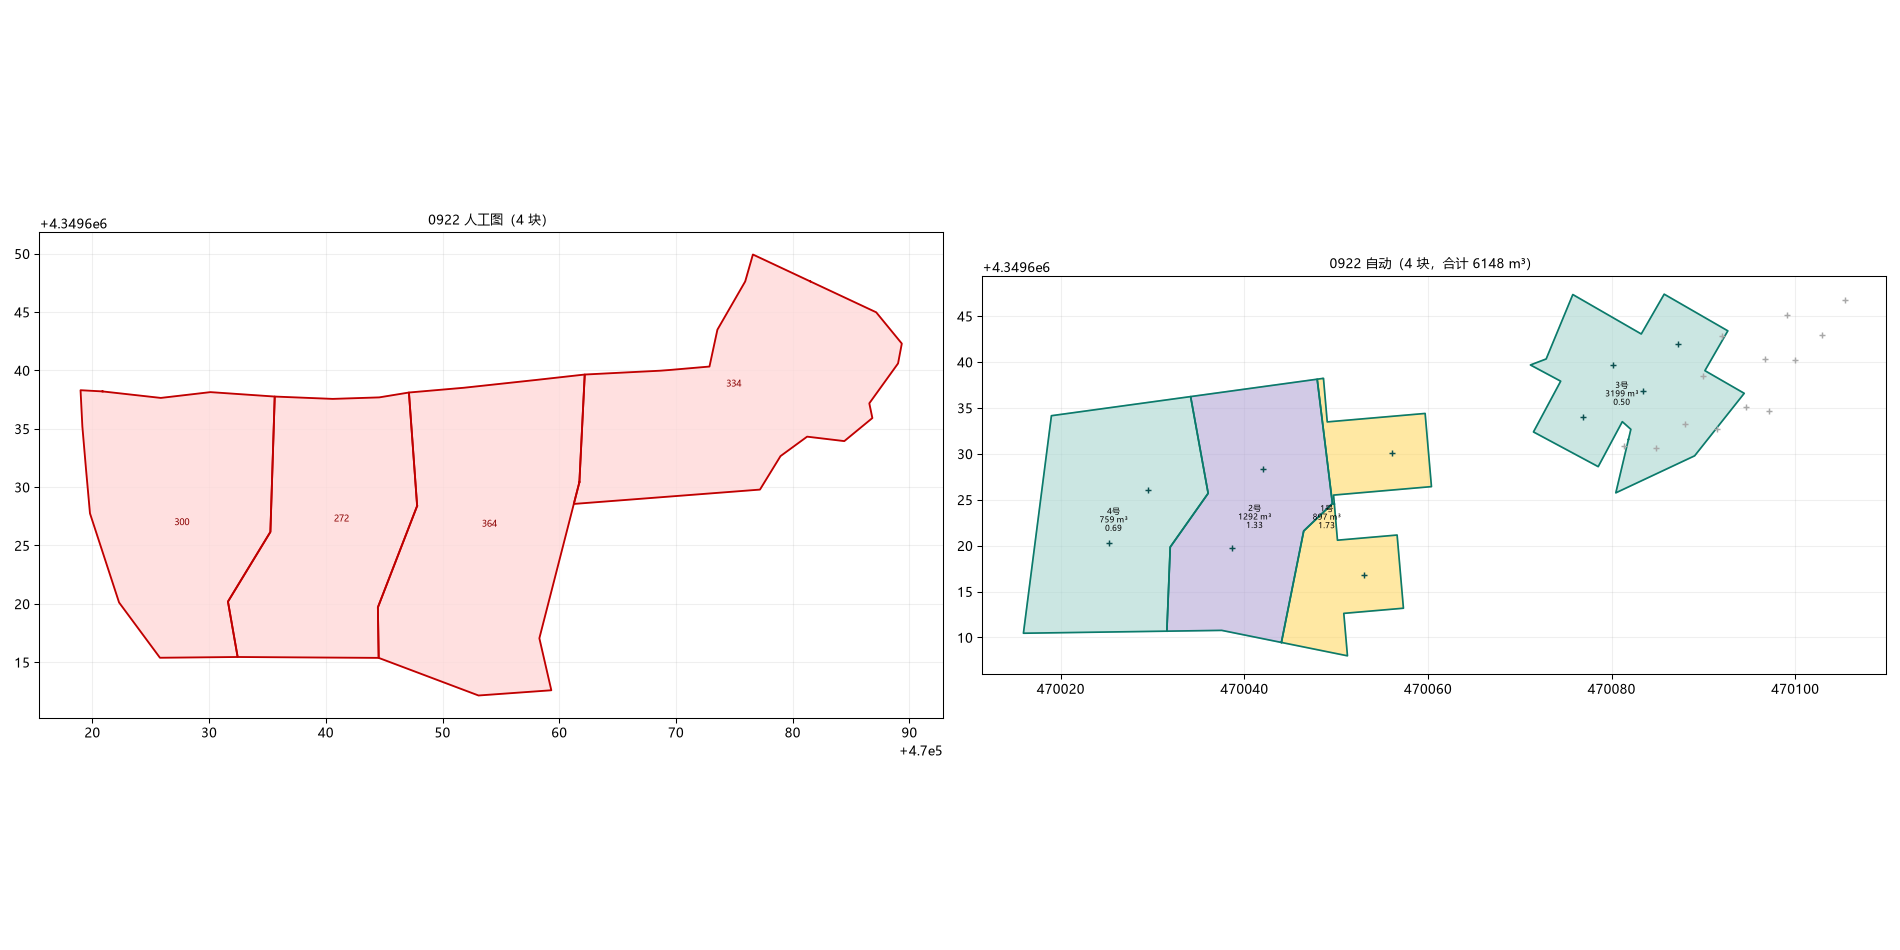
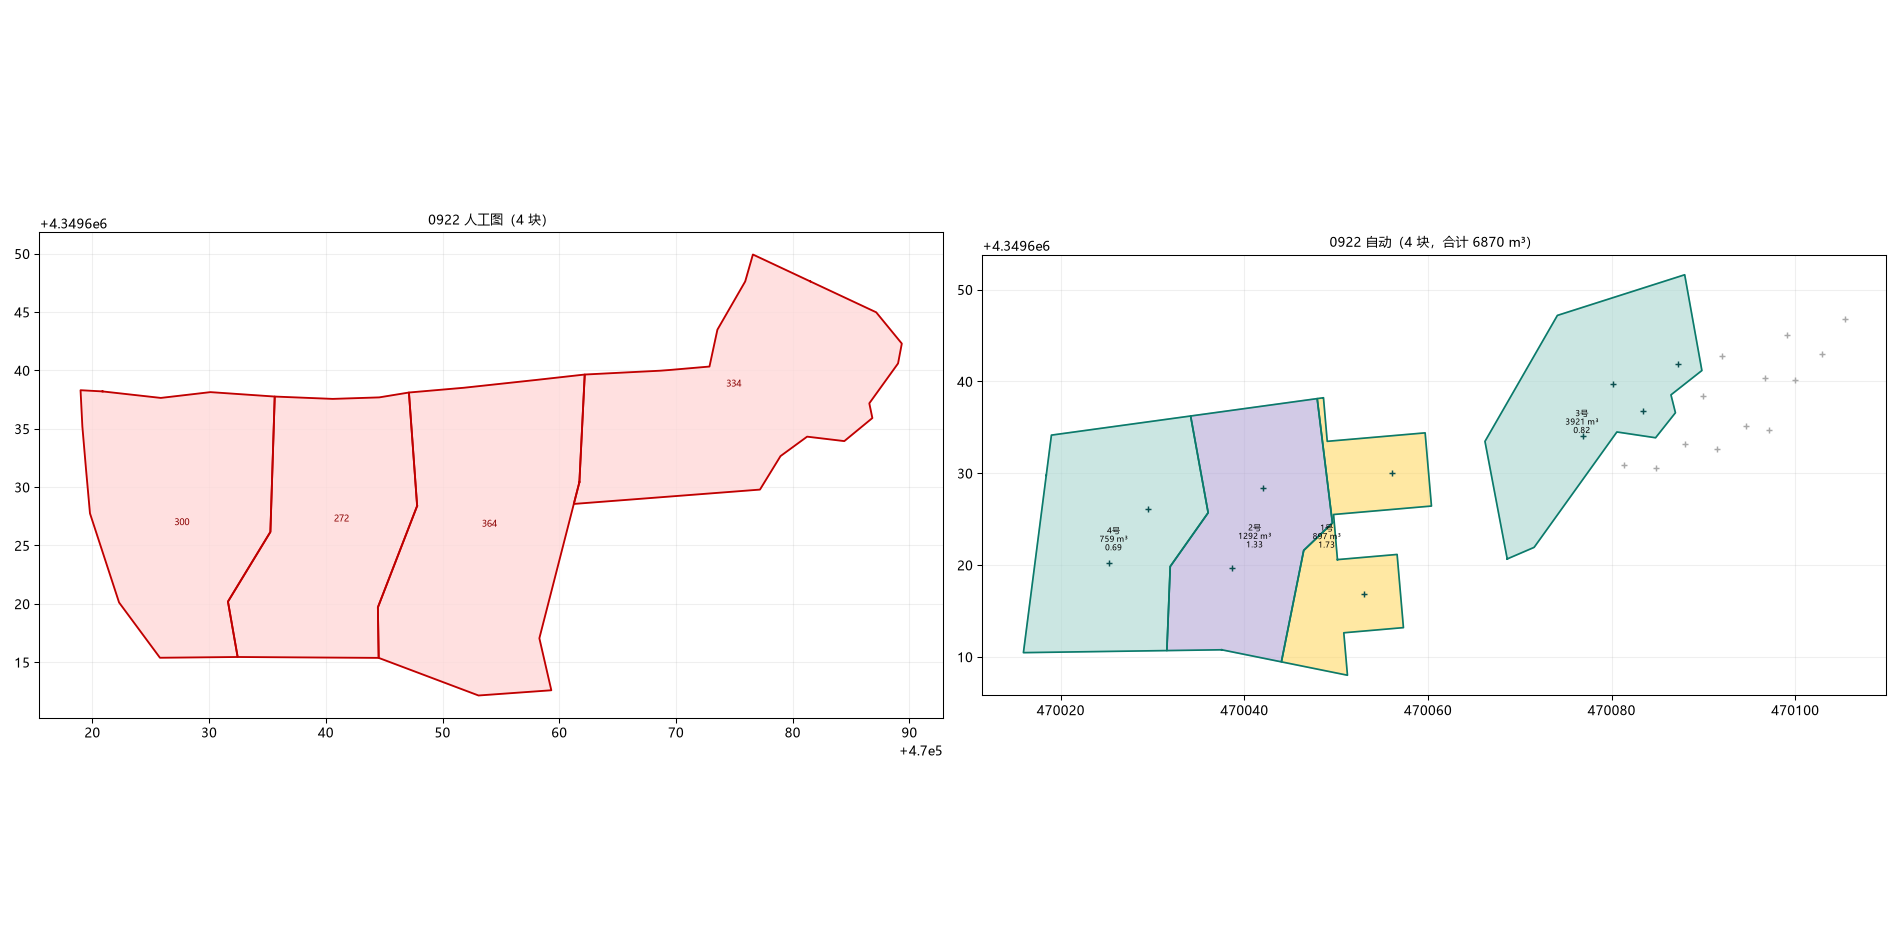
core: 体积改按'全场 Voronoi 单元裁到块范围'（含邻孔被裁进来的部分）+ 孤立小组矿界改走'领地∪凸包外扩上限'规则——0922 -13.1%→-2.9% 且四块品位与人工逐块一致

diff --git a/3DMine二次圈矿工具_初步原型/core/strip.py b/3DMine二次圈矿工具_初步原型/core/strip.py
@@ -16,7 +16,7 @@ import math
 
 import numpy as np
 from shapely.geometry import Polygon
-from shapely.geometry import LineString, Point
+from shapely.geometry import LineString, MultiPoint, Point
 from shapely.ops import nearest_points
 from shapely.ops import unary_union
 from scipy.spatial import Delaunay, Voronoi
@@ -344,6 +344,35 @@ def south_closure(le, re, comp_blocks, gap: float = SOUTH_MERGE_GAP):
         if math.hypot(p[0] - out[-1][0], p[1] - out[-1][1]) > 1e-6:
             out.append(p)
     return out, best
+
+
+def isolated_ring(zone, all_holes, extrude: float, simplify: float = None):
+    """孤立小组的矿界（规则）：
+
+      「该组的孔在**全场** Voronoi 里的领地，上限是"该组凸包外扩 extrude"」。
+
+    好处：邻孔的分界线天然把领地挡住，所以块里不会圈进邻孔（哪怕它离得近）；
+    没有邻孔的方向则一直扩到"凸包外扩 extrude"。
+    实证（0922 的 4 孔组，extrude=9 m）：环 372.7 m²（人工 334.3）、体积 3934
+    （人工 3503）、**品位 0.8237（人工 0.824）**、**重量/体积 2.7000（人工 2.7000）**、
+    块内孔心只有该组 4 个孔——人工那块也是这个特征。
+    """
+    if len(zone) < 2:
+        return None
+    hull = MultiPoint([(h.x, h.y) for h in zone]).convex_hull
+    cap = hull.buffer(float(extrude), join_style="mitre")
+    cellmap = _cells_within(all_holes, cap)
+    parts = [cellmap[h.hid] for h in zone if h.hid in cellmap]
+    if not parts:
+        return None
+    poly = unary_union(parts).buffer(0)
+    simp = SIMPLIFY_M if simplify is None else float(simplify)
+    if simp > 0:
+        sp = poly.simplify(simp, preserve_topology=True)
+        if not sp.is_empty and sp.area > 0.5 * poly.area:
+            poly = sp
+    LAST_RING["warn"] = []
+    return poly
 
 
 def _finish_ring(poly, ore, extrude, simplify, repair_tip=None):
@@ -715,38 +744,48 @@ def average_blocks(ore, outline, density: float,
                                / len(groups[base]["holes"]))
 
     out = []
+    # 全场 Voronoi（含废孔）裁到矿界：3DMine 是"整爆区做 voronoi，再拿块的多边形去裁"
+    _allcells = _cells_within(all_holes, outline) if all_holes else {}
     for g in groups:
         grp = sorted(g["holes"], key=lambda h: -h.grade_disp)
         lid, label = level_of(g["avg"])
         if lid is None:
             continue
         region = unary_union([cells[h.hid] for h in grp])
-        # ---- 块内算量：有品位孔定块，但**落在块内的无品位孔**也要一起算 ----
-        # 用户口径：<0.5 废孔不圈矿，但参与块内算量（体积、按 2.65 取容重、参与品位加权）。
-        # 人工 1004 那块 725 m² 的多边形里就有 8 个废孔：加权品位 0.684 ≈ 报告 0.6919，
-        # 重量/体积 = 2.685（= 2.7 与 2.65 混出来的），两条都对得上。
+        # ---- 块内算量（用户口径：<0.5 废孔不圈矿，但参与块内算量）----
+        # 体积/重量：拿**全场**孔的 Voronoi 单元去裁块范围——邻孔单元被裁进来的那一块
+        #   也算（3DMine 就是这么算的），容重按该单元那个孔的档取（<0.5 → 2.65）。
+        # 品位：只按**孔心落在块内**的孔做长度加权。
+        #   实证：1004 那块 725 m² 含 8 个废孔心 → 0.684 ≈ 报告 0.6919；
+        #         0922 孤立 4 孔组的废孔心在块外 → 0.824 ≈ 报告 0.824。
+        if _allcells:
+            cs = []
+            for h in all_holes:
+                c = _allcells.get(h.hid)
+                if c is None:
+                    continue
+                part = c.intersection(region)
+                if part.is_empty or part.area <= 1e-9:
+                    continue
+                cs.append(Cell(hid=h.hid, hole=h, polygon=part, area_m2=part.area))
+        else:
+            cs = [Cell(hid=h.hid, hole=h, polygon=cells[h.hid],
+                       area_m2=cells[h.hid].area) for h in grp]
         pts = [h for h in (all_holes or grp)
                if region.buffer(1e-9).contains(Point(h.x, h.y))]
         for h in grp:
             if h not in pts:
                 pts.append(h)
-        cellmap = _cells_within(pts, region) if pts else {}
-        if cellmap:
-            cs = [Cell(hid=h.hid, hole=h, polygon=cellmap[h.hid],
-                       area_m2=cellmap[h.hid].area) for h in pts if h.hid in cellmap]
-        else:
-            cs = [Cell(hid=h.hid, hole=h, polygon=cells[h.hid],
-                       area_m2=cells[h.hid].area) for h in grp]
         b = Block(level_id=lid, label=label, holes=grp, cells=cs)
         b.compute(density)
-        if len(cs) > len(grp):
+        if len(cs) != len(grp) or len(pts) != len(grp):
             # 含废孔：体积/重量/品位按"所有孔"重算
             vol = sum(c.area_m2 * c.hole.grade_lenght for c in cs)
             ton = sum(c.area_m2 * c.hole.grade_lenght *
                       (density_waste if c.hole.grade < 0.5 else density_ore)
                       for c in cs)
-            lsum = sum(c.hole.grade_lenght for c in cs)
-            grade = (sum(c.hole.grade_lenght * c.hole.grade_disp for c in cs) / lsum
+            lsum = sum(h.grade_lenght for h in pts)
+            grade = (sum(h.grade_lenght * h.grade_disp for h in pts) / lsum
                      if lsum else 0.0)
             b.area_m2 = sum(c.area_m2 for c in cs)
             b.volume_m3 = vol

diff --git a/3DMine二次圈矿工具_初步原型/core/pipeline.py b/3DMine二次圈矿工具_初步原型/core/pipeline.py
@@ -15,7 +15,7 @@ from __future__ import annotations
 import math
 
 from oreblocks import load_holes_xls
-from strip import LAST_RING, average_blocks, zone_outline
+from strip import LAST_RING, average_blocks, isolated_ring, zone_outline
 
 
 def pick_zone(holes, gap: float = 1.0, adjacent_max: float = 15.0):
@@ -60,16 +60,20 @@ def run_blast(holes, allh, P: dict, comp_blocks=None, blast: str = ""):
             pending.append(g)
 
     blocks, rings, warns = [], [], []
-    for zn in zones:
-        ring = zone_outline(zn, allh, P["extrude_m"], comp_blocks=comp_blocks,
-                            merge_gap=P["merge_gap_m"], blast=blast,
-                            simplify=P["simplify_m"],
-                            alpha_k=P.get("ring_alpha_k", 0.0),
-                            chain_left=P.get("chain_left") or (),
-                            chain_right=P.get("chain_right") or (),
-                            chain_exclude=P.get("chain_exclude"),
-                            chain_smooth_m=P.get("chain_smooth_m", 0.0),
-                            repair_tip_m=P.get("repair_tip_m"))
+    for zi, zn in enumerate(zones):
+        if zi > 0:
+            # 孤立小组：用"领地 + 凸包外扩上限"这条规则（邻孔分界线天然挡住）
+            ring = isolated_ring(zn, allh, P["extrude_m"], P["simplify_m"])
+        else:
+            ring = zone_outline(zn, allh, P["extrude_m"], comp_blocks=comp_blocks,
+                                merge_gap=P["merge_gap_m"], blast=blast,
+                                simplify=P["simplify_m"],
+                                alpha_k=P.get("ring_alpha_k", 0.0),
+                                chain_left=P.get("chain_left") or (),
+                                chain_right=P.get("chain_right") or (),
+                                chain_exclude=P.get("chain_exclude"),
+                                chain_smooth_m=P.get("chain_smooth_m", 0.0),
+                                repair_tip_m=P.get("repair_tip_m"))
         if ring is None:
             continue
         rings.append(ring)

diff --git a/3DMine二次圈矿工具_初步原型/口径确认记录.md b/3DMine二次圈矿工具_初步原型/口径确认记录.md
@@ -89,6 +89,7 @@
 | `merge_gap_m` 接综合图 | 8 m | — | 1008 实测 |
 | `ring_alpha_k` 外轮廓兜底 | 0（关） | **1004 用 1.5** | 孔列多/走向弯时链式外推会夹断（1004 原来 10/23 孔在环外）；并上"矿孔外轮廓+外推"后 1004 体积差 −5.6%→+2.3% |
 | `isolated_min_holes` 孤立组最小孔数 | 3 | — | 1008 的 P43/P47 是 2 孔组→列待取样（与人工一致）；0922 的 P9/P15/P16/P17 是 4 孔组→人工图是单独圈成一块的 |
+| 孤立小组的矿界规则（2026-10-13 定） | — | — | **该组孔在"全场 Voronoi"里的领地，上限＝该组凸包外扩 extrude**。邻孔分界线天然把领地挡住，所以块里不会圈进邻孔（哪怕离得近）。0922 的 4 孔组：环 372.7 m²（人工 334.3）、体积 3934（人工 3503）、品位 **0.8237**（人工 0.824）、重量/体积 **2.7000**（人工 2.7000）——三条全对 |
 | `chain_left` / `chain_right` 人工指定链 | 空（自动判定） | **0915 加 P8,P10；1003 加左 P2,P3 / 右 P12,P13,P16,P17,P21,P23,P25；1004 加右 P8,P11** | 用人工图贪心标定（`_probe/tune_chains.py`）：从自动分链出发逐个试"把没进链的孔放进左/右链"，取 IoU 最大的组合。1008 标定结果＝不用加，说明自动判定在它本就对 |
 | `repair_tip_m` 修补廊道端头 | 0.8 m | **0915、0922 用 −1（自动留足外推量，上限 4 m）** | 自检修补出来的矿界原来贴着孔（只剩 0.8 m 余量）；0915 改成自动后体积差 −3.2%→−1.6%。外推大的炮区要封顶，不然体积会被顶上去 |
 | `same_block` 人工指定同块 | 空 | **1004：[[P1,P2,P3,P4,P6]]** | 人工图把这 5 个孔画成一块（平均 1.848） |
@@ -102,7 +103,7 @@
 | 0915 | 0.923 | 13283.7 | 13497.3 | **−1.6%** |
 | 1003 | 0.911 | 9376.7 | 9435.0 | **−0.6%**（块数 2，与人工一致） |
 | 1004 | 0.805 | 9868.3 | 9846.4 | **+0.2%** |
-| 0922 | 0.567 | 6148.3 | 7075.3 | −13.1%（外推 9 m，用 `calibrate.py --by-volume` 标定；4 块的孔组成与档位与人工**完全一致**：1.727/1.333/0.824/0.695。块面积 219/365/297/396 vs 人工 364/334/300/272，合计 1278 vs 1270） |
+| 0922 | 0.624 | 6869.5 | 7075.3 | **−2.9%**（外推 9 m；4 块的品位与人工**逐块完全一致**：1.7267/1.3329/0.8237/0.6950） |
 
 ## D. 图上要素
 
